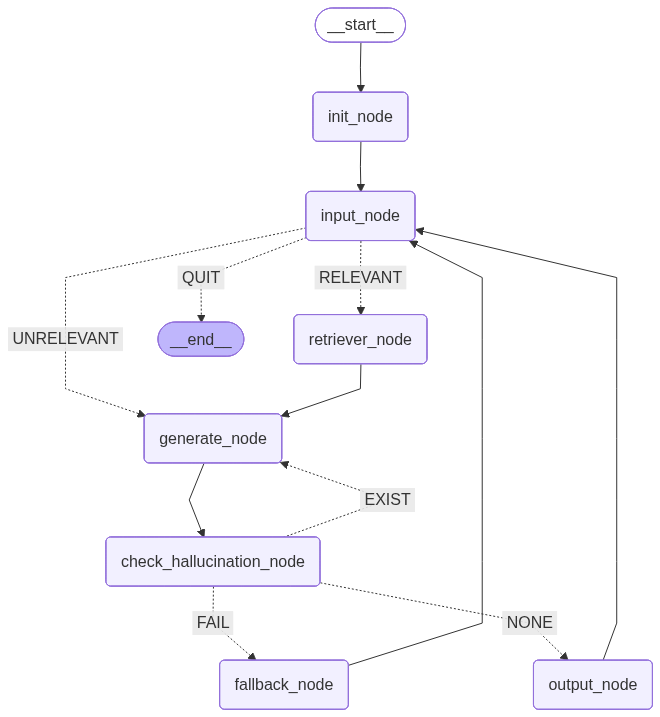
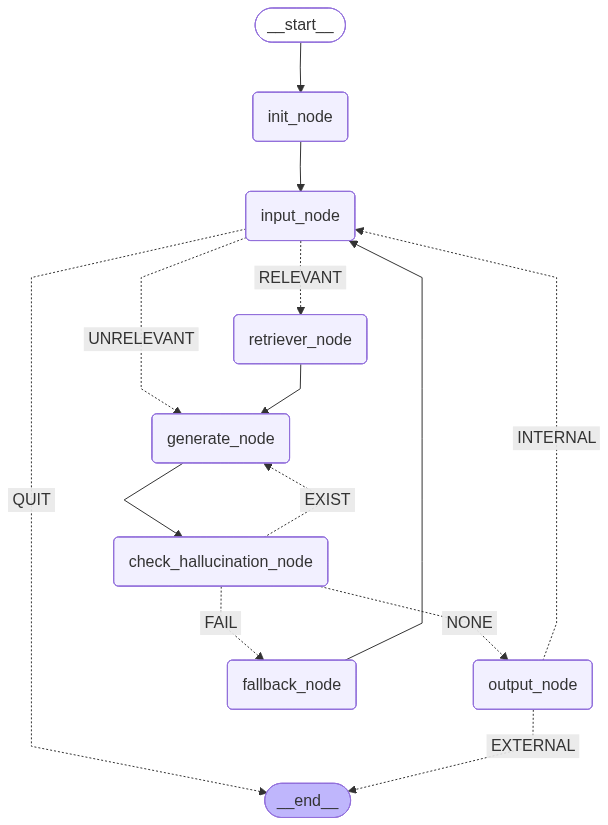
temporary connect

diff --git a/FRONTEND/src/pages/ChatPage.jsx b/FRONTEND/src/pages/ChatPage.jsx
@@ -33,7 +33,7 @@ const ChatPage = () => {
   const sendMessageToBackend = async (text) => {
     setLoading(true);
     try {
-      const res = await fetch("http://localhost:5000/chat", {
+      const res = await fetch("http://localhost:8000/chat", {
         method: "POST",
         headers: { "Content-Type": "application/json" },
         body: JSON.stringify({ message: text }),
@@ -42,7 +42,7 @@ const ChatPage = () => {
 
       const botMessage = {
         id: Date.now() + 1,
-        text: data.reply || "응답을 불러올 수 없습니다.",
+        text: data.answer || "응답을 불러올 수 없습니다.",
         sender: "bot",
       };
       setMessages((prev) => [...prev, botMessage]);

diff --git a/LLM/Agent.py b/LLM/Agent.py
@@ -22,11 +22,13 @@ class Graph_State(TypedDict):
     milvus: Optional[Milvus]
     embedding_model: Optional[Embeddings]
     llm: Optional[BaseLLM]
+    one_way: bool
 
 # 실행 준비
 def init_node(state: Graph_State) -> dict:
-    # 데이터 초기화
-    initial_state = {
+    current_state = dict(state)
+
+    default_state = {
         "question": "",
         "skip_retrieve": False,
         "context": [],
@@ -36,7 +38,11 @@ def init_node(state: Graph_State) -> dict:
         "milvus": None,
         "embedding_model": None,
         "llm": None,
+        "one_way": False
     }
+
+    merge_state = default_state
+    merge_state.update(current_state)
 
     # 임베딩 모델 로드
     try:
@@ -53,7 +59,7 @@ def init_node(state: Graph_State) -> dict:
             }
         )
         
-        initial_state["embedding_model"] = embedding_model
+        merge_state["embedding_model"] = embedding_model
         print(f"임베딩 모델({EMBEDDING_MODEL_NAME}) 로드 성공")
     except Exception as e:
         print(f"임베딩 모델({EMBEDDING_MODEL_NAME}) 로드 실패: {e}")
@@ -72,7 +78,7 @@ def init_node(state: Graph_State) -> dict:
             vector_field="vector", # 벡터 필드 이름
             index_params={"metric_type": "COSINE"}
         )
-        initial_state["milvus"] = milvus
+        merge_state["milvus"] = milvus
         print(f"Milvus 연결 성공: {MILVUS_HOST}")
     except Exception as e:
         print(f"Milvus 연결 실패: {e}")
@@ -86,20 +92,23 @@ def init_node(state: Graph_State) -> dict:
 
         # 모델 설정
         llm = ChatGroq(model_name=LLM_MODEL, temperature=TEMP, api_key=GROQ_API_KEY)
-        initial_state["llm"] = llm
+        merge_state["llm"] = llm
         print(f"LLM 모델({LLM_MODEL}) 로드 성공")
     except Exception as e:
         print(f"LLM 모델({LLM_MODEL}) 로드 실패: {e}")
         exit(1)
 
-    return initial_state
+    return merge_state
 
 # 사용자에게 질문 받기
 def input_node(state: Graph_State) -> dict:
-    user_input = input("증상을 입력하세요(종료하고 싶다면 quit): ")
-    if user_input.lower() == "quit":
-        return {"question": "quit"}
-    
+    if state["one_way"] == False:
+        user_input = input("증상을 입력하세요(종료하고 싶다면 quit): ")
+        if user_input.lower() == "quit":
+            return {"question": "quit"}
+    else:
+        user_input = state["question"]
+
     llm = state["llm"]
     messages = [
         SystemMessage(content=
@@ -255,6 +264,7 @@ def generate_node(state: Graph_State) -> dict:
                         당신은 반려견 전문 수의사입니다. 아래 지침 단계에 맞게 행동해 주세요.
                         [지침]
                         {guideline}
+                        **중요! ###이나 표, **같은 마크다운 형식으로 대답하지 마세요!**
                         """),
         HumanMessage(content=f"[질문] {question}\n\n[참고 문서]\n{context_text}")
     ]
@@ -300,11 +310,29 @@ def check_hallucination_node(state: Graph_State) -> dict:
 
     return {"hallucination": hallucination}
 
+def _remove_markdown(self, text: str) -> str:
+    """마크다운 형식을 제거하는 함수"""
+    import re
+
+    text = re.sub(r'```.*?```', '', text, flags=re.DOTALL)  # 코드 블록 제거 (```...```)
+    text = re.sub(r'`([^`]+)`', r'\1', text)  # 인라인 코드 제거 (`...`)
+    text = re.sub(r'\*\*([^*]+)\*\*', r'\1', text)  # 굵은 글씨 제거 (**...**)
+    text = re.sub(r'__([^_]+)__', r'\1', text)  # 굵은 글씨 제거 (__...__)
+    text = re.sub(r'\*([^*]+)\*', r'\1', text)  # 기울임 글씨 제거 (*...*)
+    text = re.sub(r'_([^_]+)_', r'\1', text)  # 기울임 글씨 제거 (_..._)
+    text = re.sub(r'^#{1,6}\s*', '', text, flags=re.MULTILINE)  # 제목 제거 (# ## ###)
+    text = re.sub(r'^[-*]{3,}$', '', text, flags=re.MULTILINE)  # 수평선 제거 (--- ***)
+    text = re.sub(r'^\s*#{1,6}\s*', '', text, flags=re.MULTILINE)  # 앞에 공백이 있는 헤더도 제거
+
+    return text
+
 # 최종 답변 출력 후 재시작
 def output_node(state: Graph_State) -> dict:
     answer = state["answer"]
-    print(f"[응답] {answer}")
-    pass
+    final_answer=_remove_markdown(answer)
+
+    print(f"[응답] {final_answer}")
+    return {"answer": answer}
 
 def fallback_node(state: Graph_State) -> dict:
     answer = "죄송합니다. 현재 질문에 관한 정보를 찾지 못 했습니다. 더 구체적인 질문으로 다시 시도하거나 다른 질문을 해 주세요."
@@ -327,7 +355,7 @@ def workflow():
 
     graph.add_edge("init_node", "input_node")
 
-    def dedicate_quit(state: Graph_State) -> bool:
+    def dedicate_quit(state: Graph_State) -> str:
         if state["question"].lower() == "quit":
             print("프로그램을 종료합니다.")
             return "QUIT"
@@ -341,11 +369,11 @@ def workflow():
     graph.add_conditional_edges("input_node",
                                 dedicate_quit,
                                     {
-                                    "RELEVANT": "retriever_node",
-                                    "UNRELEVANT": "generate_node",
-                                    "QUIT" : END
+                                        "RELEVANT": "retriever_node",
+                                        "UNRELEVANT": "generate_node",
+                                        "QUIT" : END
                                     }
-                                )
+    )
     graph.add_edge("retriever_node", "generate_node")
     graph.add_edge("generate_node", "check_hallucination_node")
 
@@ -365,12 +393,24 @@ def workflow():
     graph.add_conditional_edges("check_hallucination_node",
                                 dedicate_retry,
                                     {
-                                    "NONE": "output_node",
-                                    "EXIST": "generate_node",
-                                    "FAIL": "fallback_node"
+                                        "NONE": "output_node",
+                                        "EXIST": "generate_node",
+                                        "FAIL": "fallback_node"
                                     }
-                                )
-    graph.add_edge("output_node", "input_node")
+    )
+    
+    def dedicate_again(state: Graph_State) -> str:
+        if state["one_way"] == True:
+            return "EXTERNAL"
+        else:
+            return "INTERNAL"
+    graph.add_conditional_edges("output_node",
+                                dedicate_again,
+                                    {
+                                        "EXTERNAL": END,
+                                        "INTERNAL": "input_node"
+                                    }
+    )
     graph.add_edge("fallback_node", "input_node")
 
     return graph.compile()
@@ -385,6 +425,13 @@ def draw_workflow(app):
         print("그래프가 성공적으로 저장되었습니다.")
     except Exception as e:
         print(f"이미지 생성 중 오류가 발생했습니다: {e}")
+
+# 외부 호출용 함수
+async def run(querry):
+    app = workflow()
+    initial_state = {"question" : querry, "one_way": True}
+    final_state = app.invoke(initial_state)
+    return final_state["answer"]
 
 def main():
     app = workflow()

diff --git a/BACKEND/app/main.py b/BACKEND/app/main.py
@@ -1,0 +1,23 @@
+from fastapi import FastAPI
+from fastapi.middleware.cors import CORSMiddleware
+from BACKEND.app.api.routers import api_router
+
+app = FastAPI(
+    title="Haru Dang",
+    description="Dog Care AI",
+    version="0.0.1",
+    docs_url="/docs",
+    redoc_url="/redoc"
+)
+
+origins = ["http://localhost:5173"]
+
+app.add_middleware(
+    CORSMiddleware,
+    allow_origins=origins,  # 허용할 출처 목록
+    allow_credentials=True, # 쿠키/인증 헤더를 허용할지 여부
+    allow_methods=["*"],    # 모든 HTTP 메서드 (GET, POST, PUT 등) 허용
+    allow_headers=["*"],    # 모든 HTTP 헤더 허용
+)
+
+app.include_router(api_router)

diff --git a/BACKEND/app/api/endpoints/chat.py b/BACKEND/app/api/endpoints/chat.py
@@ -1,0 +1,11 @@
+from fastapi import APIRouter, Depends, HTTPException
+from BACKEND.app.schemas.chat import ChatRequest, ChatResponse
+
+from LLM.Agent import run
+
+router = APIRouter()
+
+@router.post("", response_model=ChatResponse)
+async def chat(request: ChatRequest):
+    result = await run(request.message)
+    return ChatResponse(answer=result)

diff --git a/BACKEND/app/schemas/chat.py b/BACKEND/app/schemas/chat.py
@@ -1,0 +1,9 @@
+from pydantic import BaseModel
+from typing import Optional
+
+class ChatRequest(BaseModel):
+    user_id: Optional[str] = None
+    message: str
+
+class ChatResponse(BaseModel):
+    answer: str

diff --git a/BACKEND/app/api/routers.py b/BACKEND/app/api/routers.py
@@ -1,0 +1,5 @@
+from fastapi import APIRouter
+from BACKEND.app.api.endpoints import chat
+
+api_router=APIRouter()
+api_router.include_router(chat.router, prefix="/chat", tags=["chat"])
